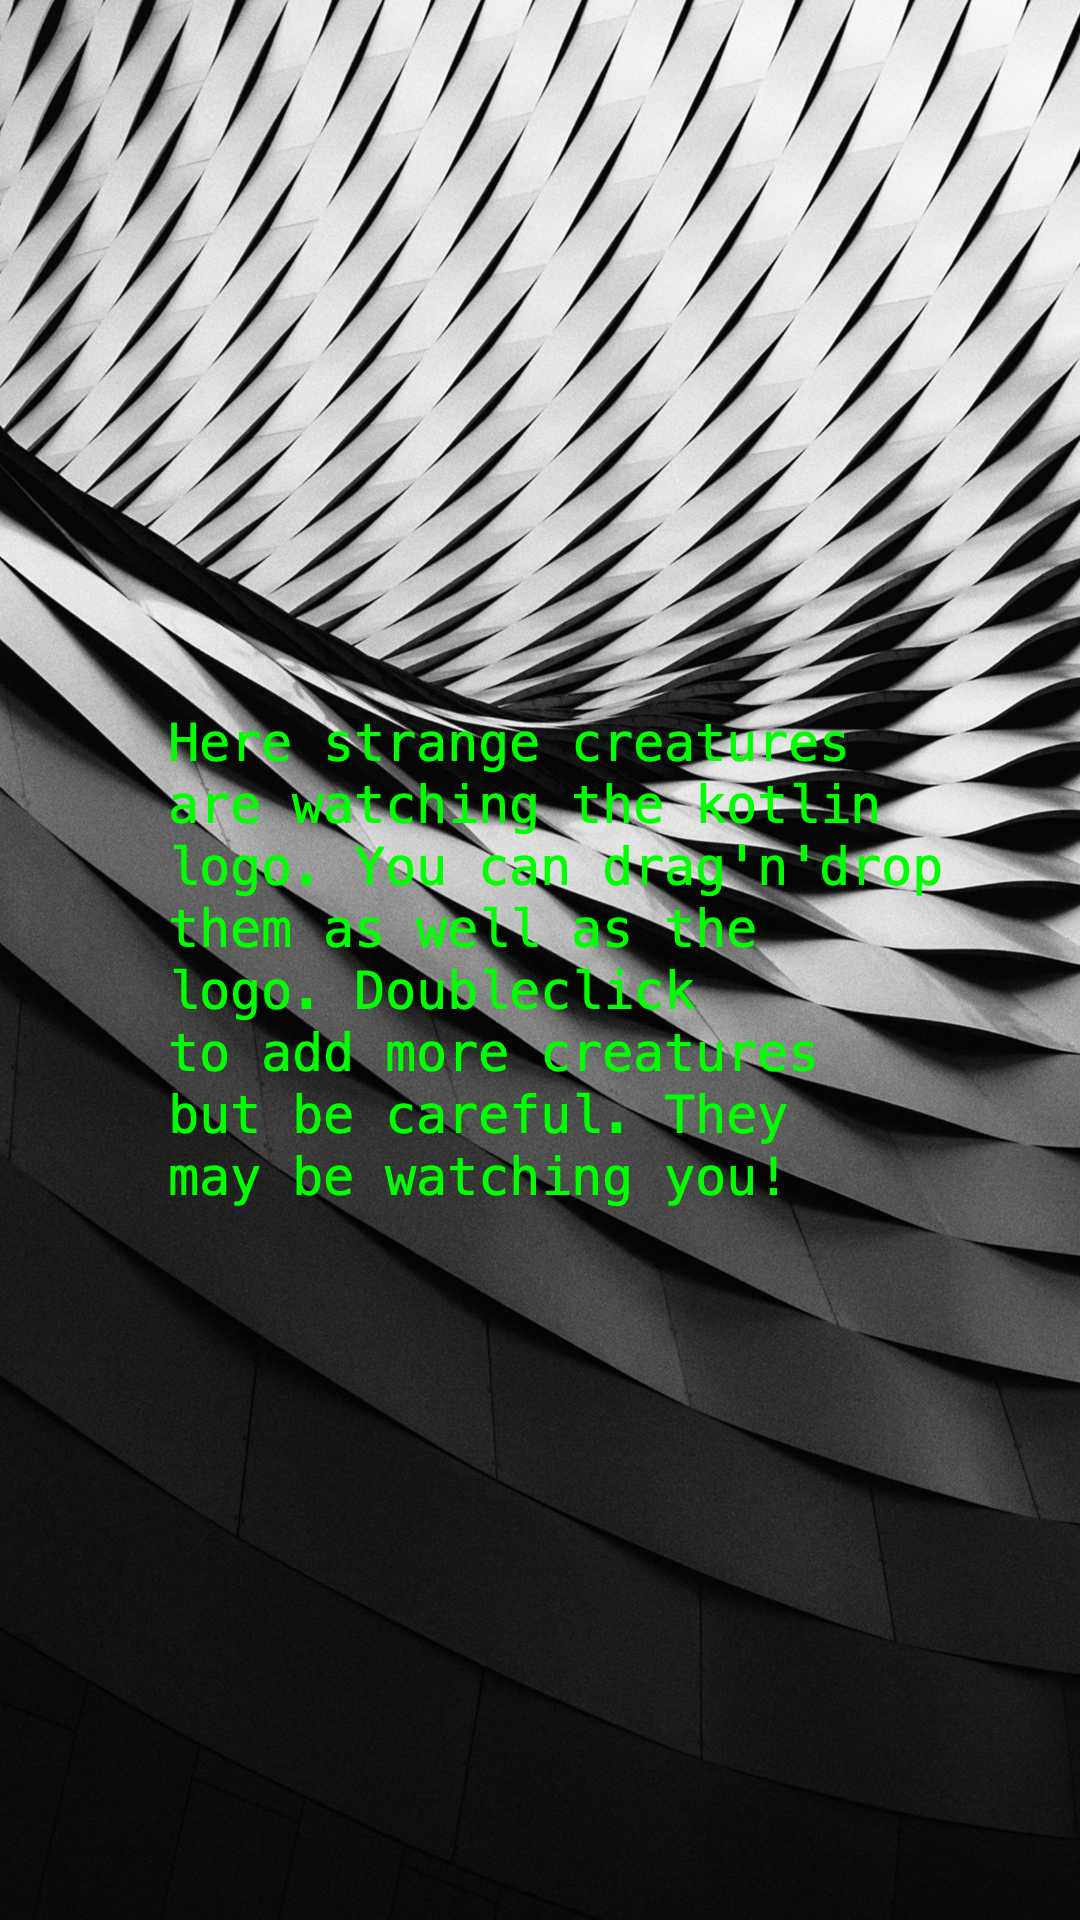
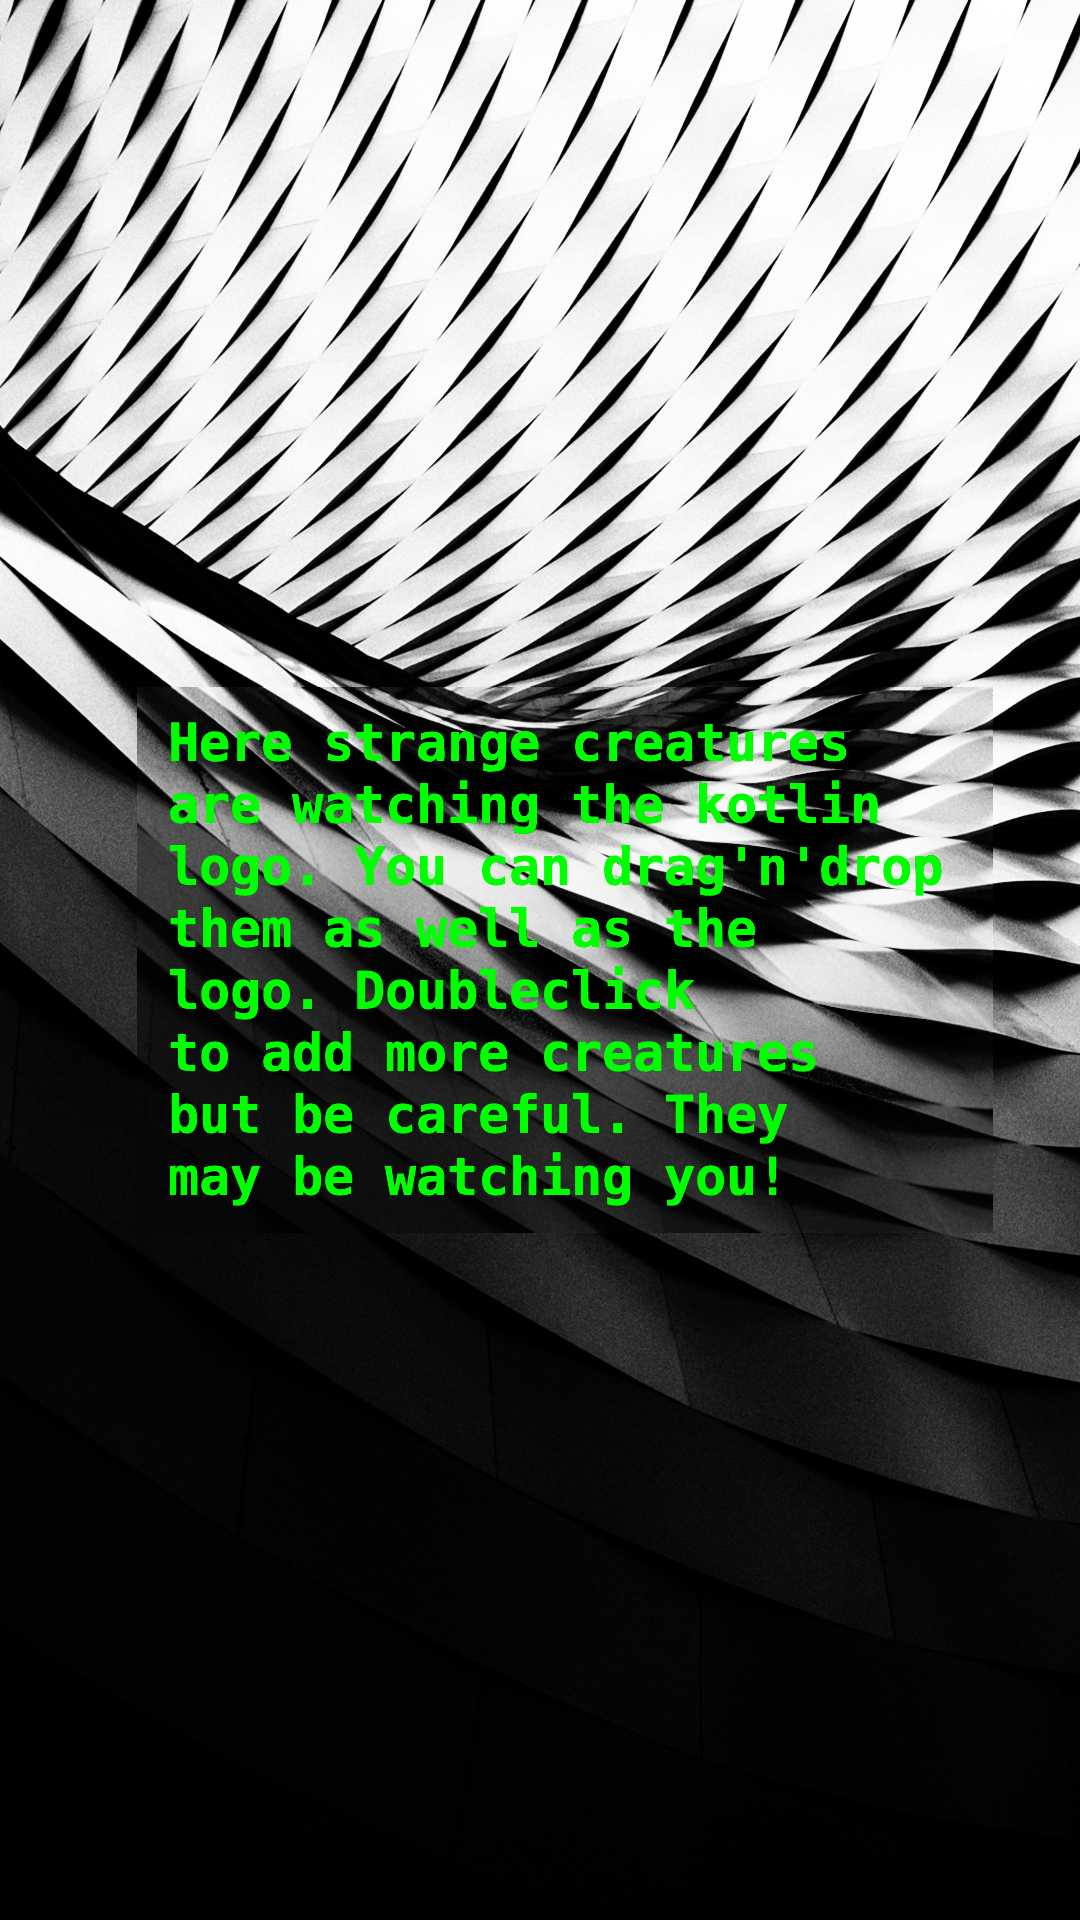
wip background

diff --git a/src/main/kotlin/Main.kt b/src/main/kotlin/Main.kt
@@ -1,4 +1,8 @@
 import com.sksamuel.scrimage.ImmutableImage
+import com.sksamuel.scrimage.composite.AlphaComposite
+import com.sksamuel.scrimage.composite.OverlayComposite
+import com.sksamuel.scrimage.filter.AlphaMaskFilter
+import com.sksamuel.scrimage.filter.BlurFilter
 import com.sksamuel.scrimage.nio.JpegWriter
 import kotlinx.coroutines.coroutineScope
 import okhttp3.OkHttpClient
@@ -9,6 +13,7 @@ import java.awt.image.BufferedImage
 import java.io.File
 import java.io.InputStream
 import java.text.AttributedString
+import kotlin.math.roundToInt
 
 
 const val DIRECTORY_OUTPUT = "output"
@@ -35,7 +40,7 @@ suspend fun main() = coroutineScope {
     val awtImage: BufferedImage = imageCropped.awt()
     val imageWithQuote = with(awtImage) {
         val graphics = graphics
-        val font = Font(Font.MONOSPACED, Font.PLAIN, 52)
+        val font = Font(Font.MONOSPACED, Font.BOLD, 52)
         val fontMetrics: FontMetrics = graphics.getFontMetrics(font)
 
         val lines = quote.getBoundFormattedLines(reelImageSize.center, fontMetrics)
@@ -43,8 +48,23 @@ suspend fun main() = coroutineScope {
         val height = fontMetrics.height * lines.size
         val quoteSize = Size(width = maxWidth, height = height)
 
+        val blurFontBg = imageCropped
+            .cropSize(
+                quoteSize.copy(
+                    width = quoteSize.width + 50,
+                    height = quoteSize.height + 50,
+                )
+            )
+            .filter(BlurFilter())
+
+        blurFontBg.write("result3")
+
         var yLoc = (reelImageSize.center.height - quoteSize.center.height) + fontMetrics.ascent
         val xLoc = reelImageSize.center.width - quoteSize.center.width
+
+        val overlay = imageCropped.overlay(
+            blurFontBg, xLoc, yLoc - (fontMetrics.ascent * 1.5).roundToInt()
+        )
 
         lines.forEach { line ->
             val attributedText = AttributedString(line)
@@ -54,7 +74,10 @@ suspend fun main() = coroutineScope {
             yLoc += fontMetrics.height
         }
 
-        ImmutableImage.fromAwt(this)
+        ImmutableImage.fromAwt(this).composite(
+            OverlayComposite(1.0),
+            overlay
+        )
     }
     imageWithQuote.write("result2")
     Unit
